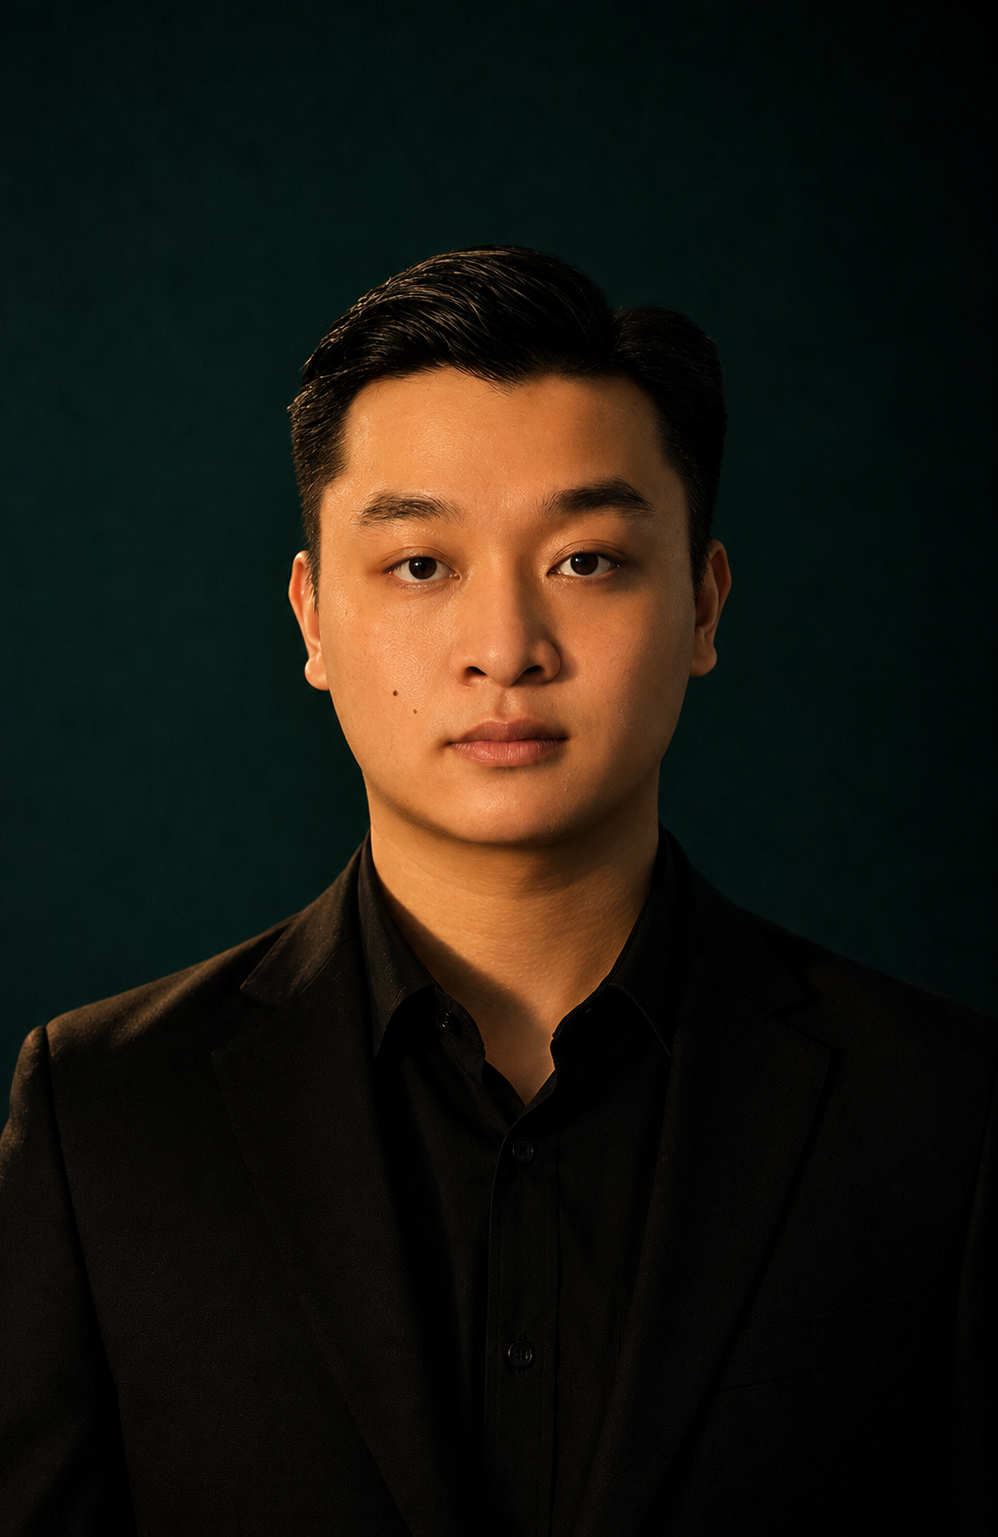
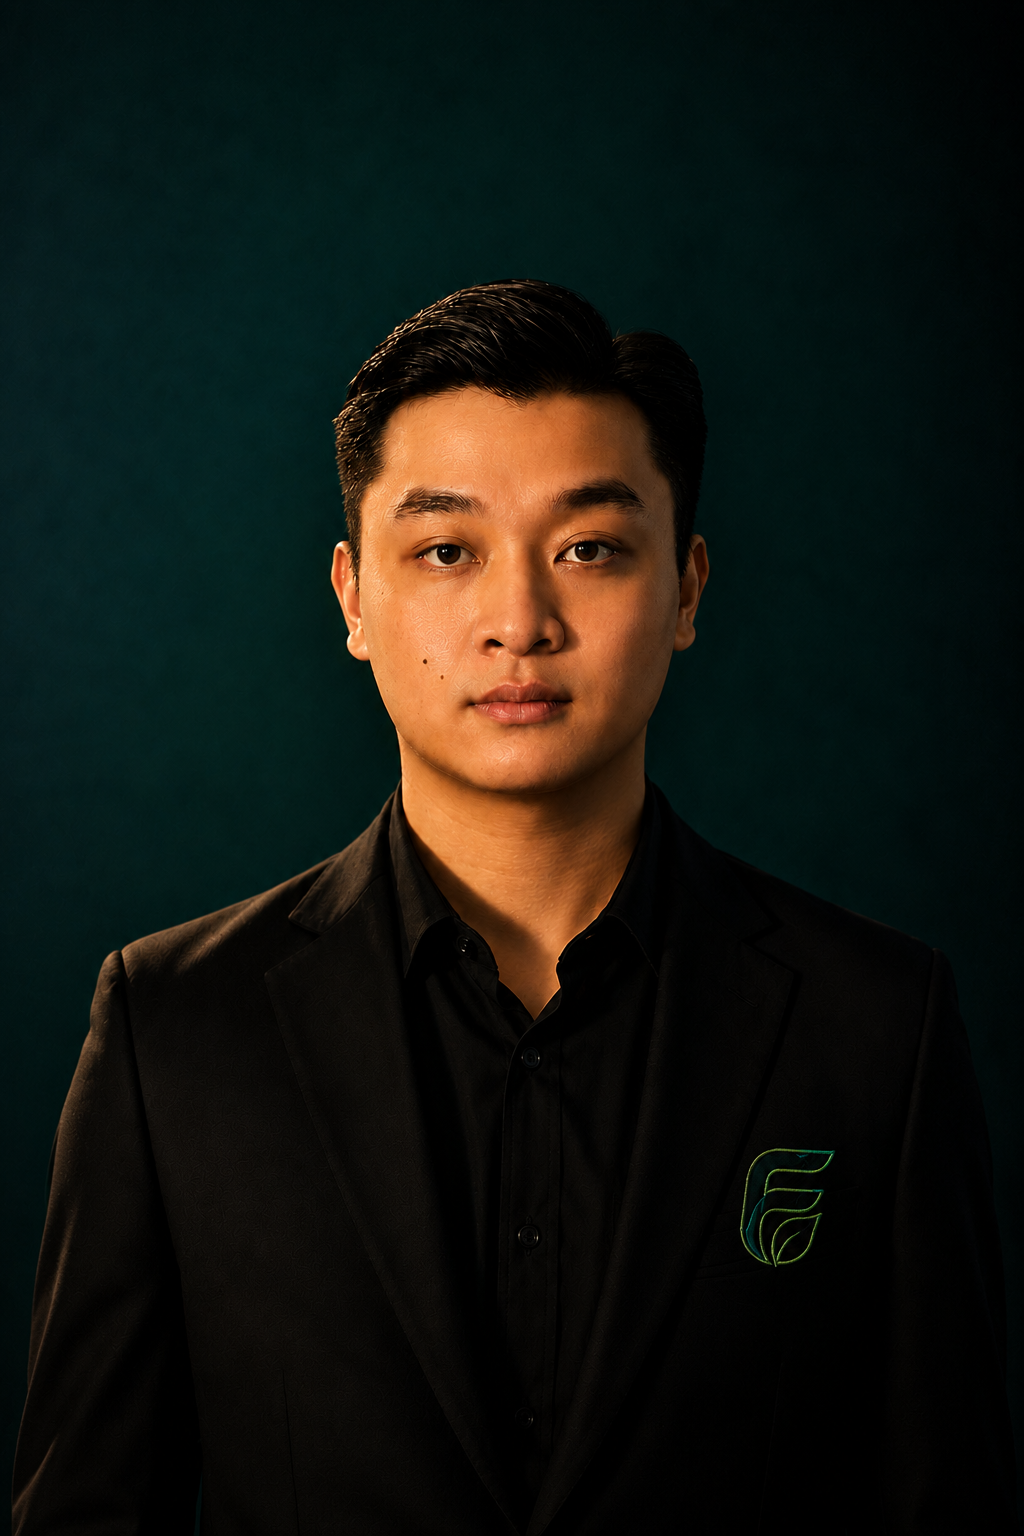
fix(topbar): remove inline display:none blocking mobile menu trigger from showing

diff --git a/client/src/components/Topbar.jsx b/client/src/components/Topbar.jsx
@@ -7,12 +7,11 @@ export default function Topbar({ breadcrumbItems, onOpenMobileMenu }) {
   return (
     <header className="a-topbar">
       <div style={{ display: "flex", alignItems: "center", gap: 14 }}>
-        {/* Mobile menu trigger */}
+        {/* Mobile menu trigger — chỉ hiện khi màn hình <= 768px (xem .a-menu-trigger trong admin.css) */}
         <button
           onClick={onOpenMobileMenu}
-          className="a-topbar-btn"
+          className="a-topbar-btn a-menu-trigger"
           aria-label="Mở menu"
-          style={{ display: "none" }} // shown via @media in CSS
         >
           <Menu size={18} />
         </button>

diff --git a/client/src/components/assets/css/admin.css b/client/src/components/assets/css/admin.css
@@ -69,6 +69,8 @@
   /* Transitions */
   --a-trans-fast: all 0.15s ease;
   --a-trans-base: all 0.22s cubic-bezier(0.4, 0, 0.2, 1);
+
+  --a-trans-luxury: 0.42s cubic-bezier(0.16, 1, 0.3, 1);
 }
 
 /* ── 2. RESET (scoped to admin) ─────────────────────────── */
